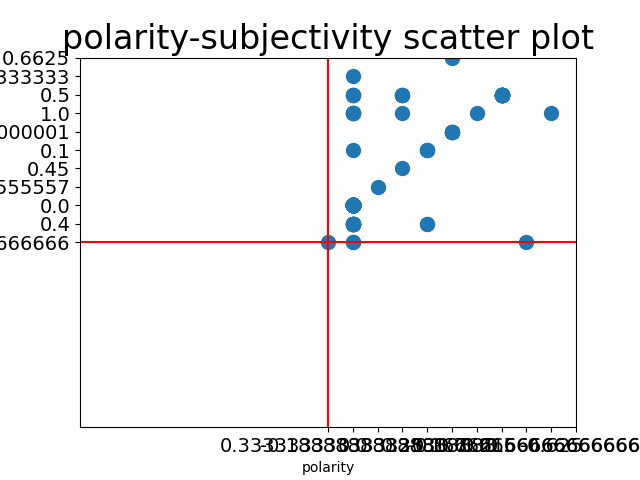
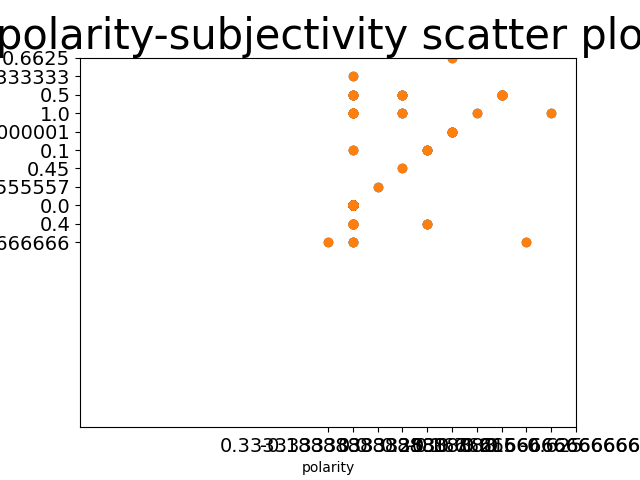
saving

diff --git a/capstone/flask_tutorial/templates/dashboard.html b/capstone/flask_tutorial/templates/dashboard.html
@@ -1,10 +1,18 @@
 <!doctype html>
 <html>
 <head>
-<meta charset="utf-8">
+<link href="https://cdn.jsdelivr.net/npm/bootstrap@5.0.0-beta1/dist/css/bootstrap.min.css" rel="stylesheet" integrity="sha384-giJF6kkoqNQ00vy+HMDP7azOuL0xtbfIcaT9wjKHr8RbDVddVHyTfAAsrekwKmP1" crossorigin="anonymous">
+
+<meta charset="utf-8" http-equiv="refresh" content="5">
+<!-- <meta http-equiv="refresh" content="5" > -->
 <title>Dashboard</title>
 
-<style>
+    	 <h1  style="text-align:center">Business Sentiment Analyzer</h1>
+
+
+
+
+<!-- <style>
       table,
       th,
       td {
@@ -12,7 +20,7 @@
         border: 1px solid black;
         border-collapse: collapse;
       }
-    </style>
+    </style> -->
 </head>
 <body>
 <!-- <table >
@@ -36,8 +44,8 @@
 </table> -->
 
 <!--     <table  border="3" text-align:center cellpadding="5" cellspacing="5">  -->
-    	 <table>
-    	 <caption>Business Sentiment Analyzer</caption>
+<div class="container mt-5" >
+<table class="table table-dark table-striped table-hover">
         <thead> 
         <tr> 
             <th>ID</th> 
@@ -57,7 +65,7 @@
             {% endfor %} 
         </tbody> 
     </table> 
-
+</div>
 </body>
 </html>
 

diff --git a/capstone/flask_tutorial/connection.py b/capstone/flask_tutorial/connection.py
@@ -6,25 +6,30 @@ from flask_mysqldb import MySQL
 from flask import Flask, redirect, url_for,request, render_template
 import pandas as pd
 import matplotlib.pyplot  as plt
-
+import time
 
 
 app = Flask(__name__)
 api = Api(app)
 
 
-conn = MySQLdb.connect("localhost","root","password","tweets" ) 
-cursor = conn.cursor() 
+
 
 @app.route('/dashboard/')
 def example(): 
-    cursor.execute("select * from senti_tweets") 
-    data = cursor.fetchall() #data from database 
-    return render_template("dashboard.html", value=data)
+	while(True):
+		conn = MySQLdb.connect("localhost","root","password","tweets" ) 
+		cursor = conn.cursor() 
+		cursor.execute("select * from senti_tweets") 
+		data = cursor.fetchall() #data from database 
+		# time.sleep(10)
+		# example()
+		return render_template("dashboard.html", value=data)
 
 @app.route('/plot/')
 def plot():
-
+	conn = MySQLdb.connect("localhost","root","password","tweets" ) 
+	cursor = conn.cursor() 
 	cursor.execute("select polarity,subjectivity from senti_tweets")
 	result = cursor.fetchall()
 	df = pd.DataFrame(list(result),columns=["polarity","subjectivity"])
@@ -34,12 +39,10 @@ def plot():
 	plt.xlim((-10,10))
 	# Set y-axis range
 	plt.ylim((-10,10))
-	plt.title("polarity-subjectivity scatter plot", fontsize="24")
-	plt.scatter(x, y, s=100)
+	plt.title("polarity-subjectivity scatter plot", fontsize="30")
+	plt.scatter(x, y)
 	plt.xlabel("polarity")
 	plt.ylabel("subjectivity")
-	plt.axhline(0, color='red')
-	plt.axvline(0, color='red')
 	plt.tick_params(axis='both',which='major',labelsize=14)
 	plt.savefig('static/images/plot.png')
 	return render_template('plot.html', url='/static/images/plot.png')
